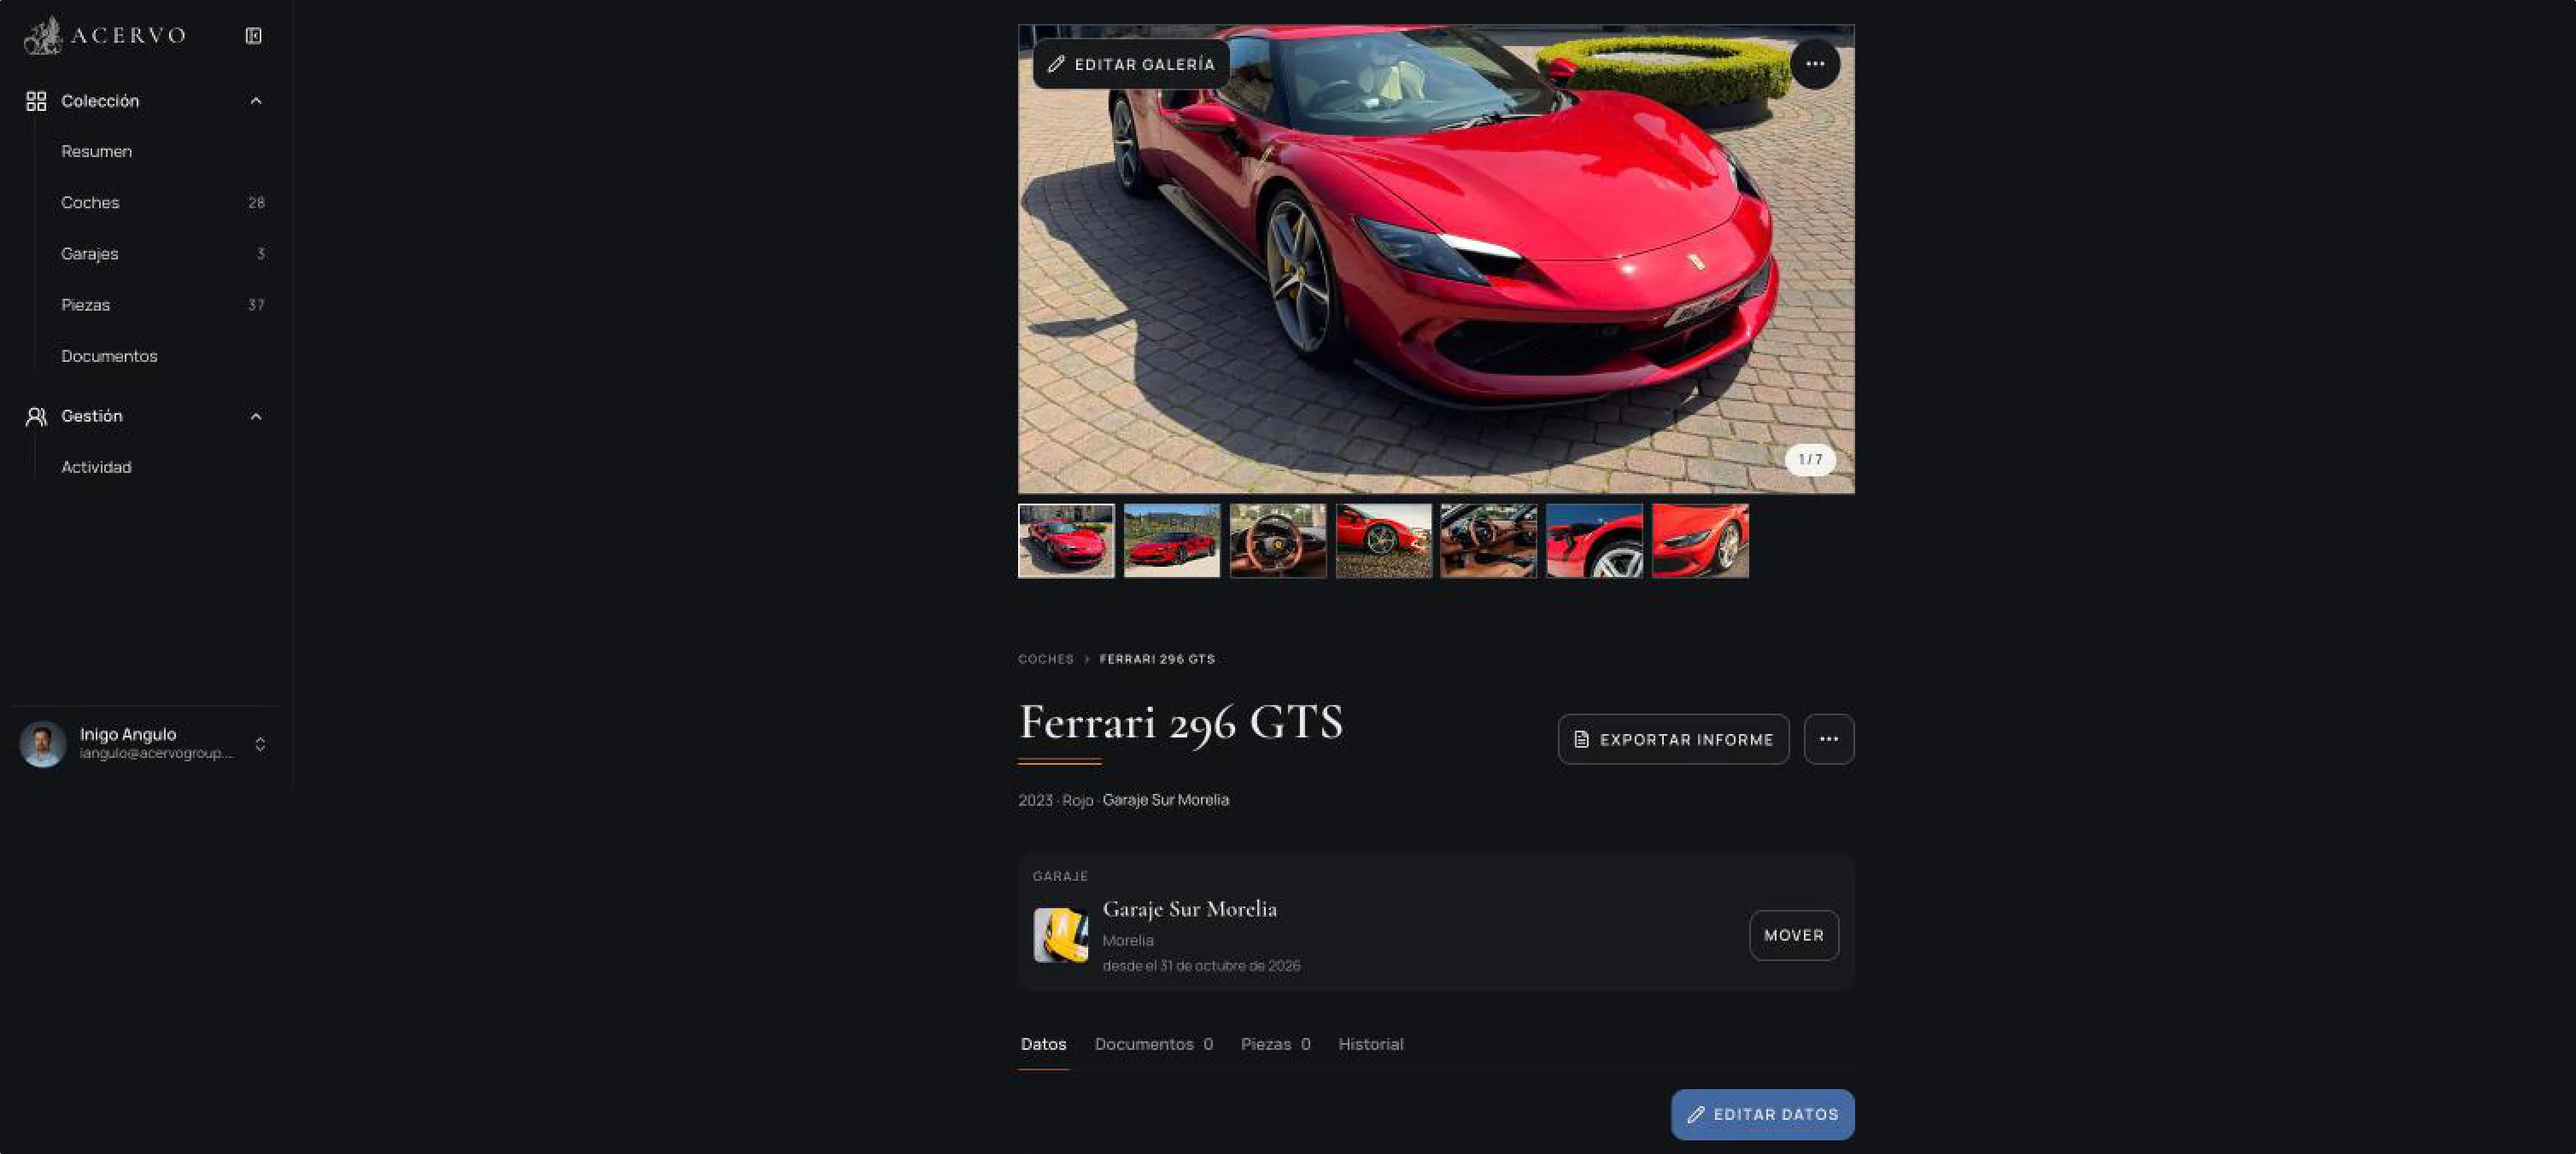
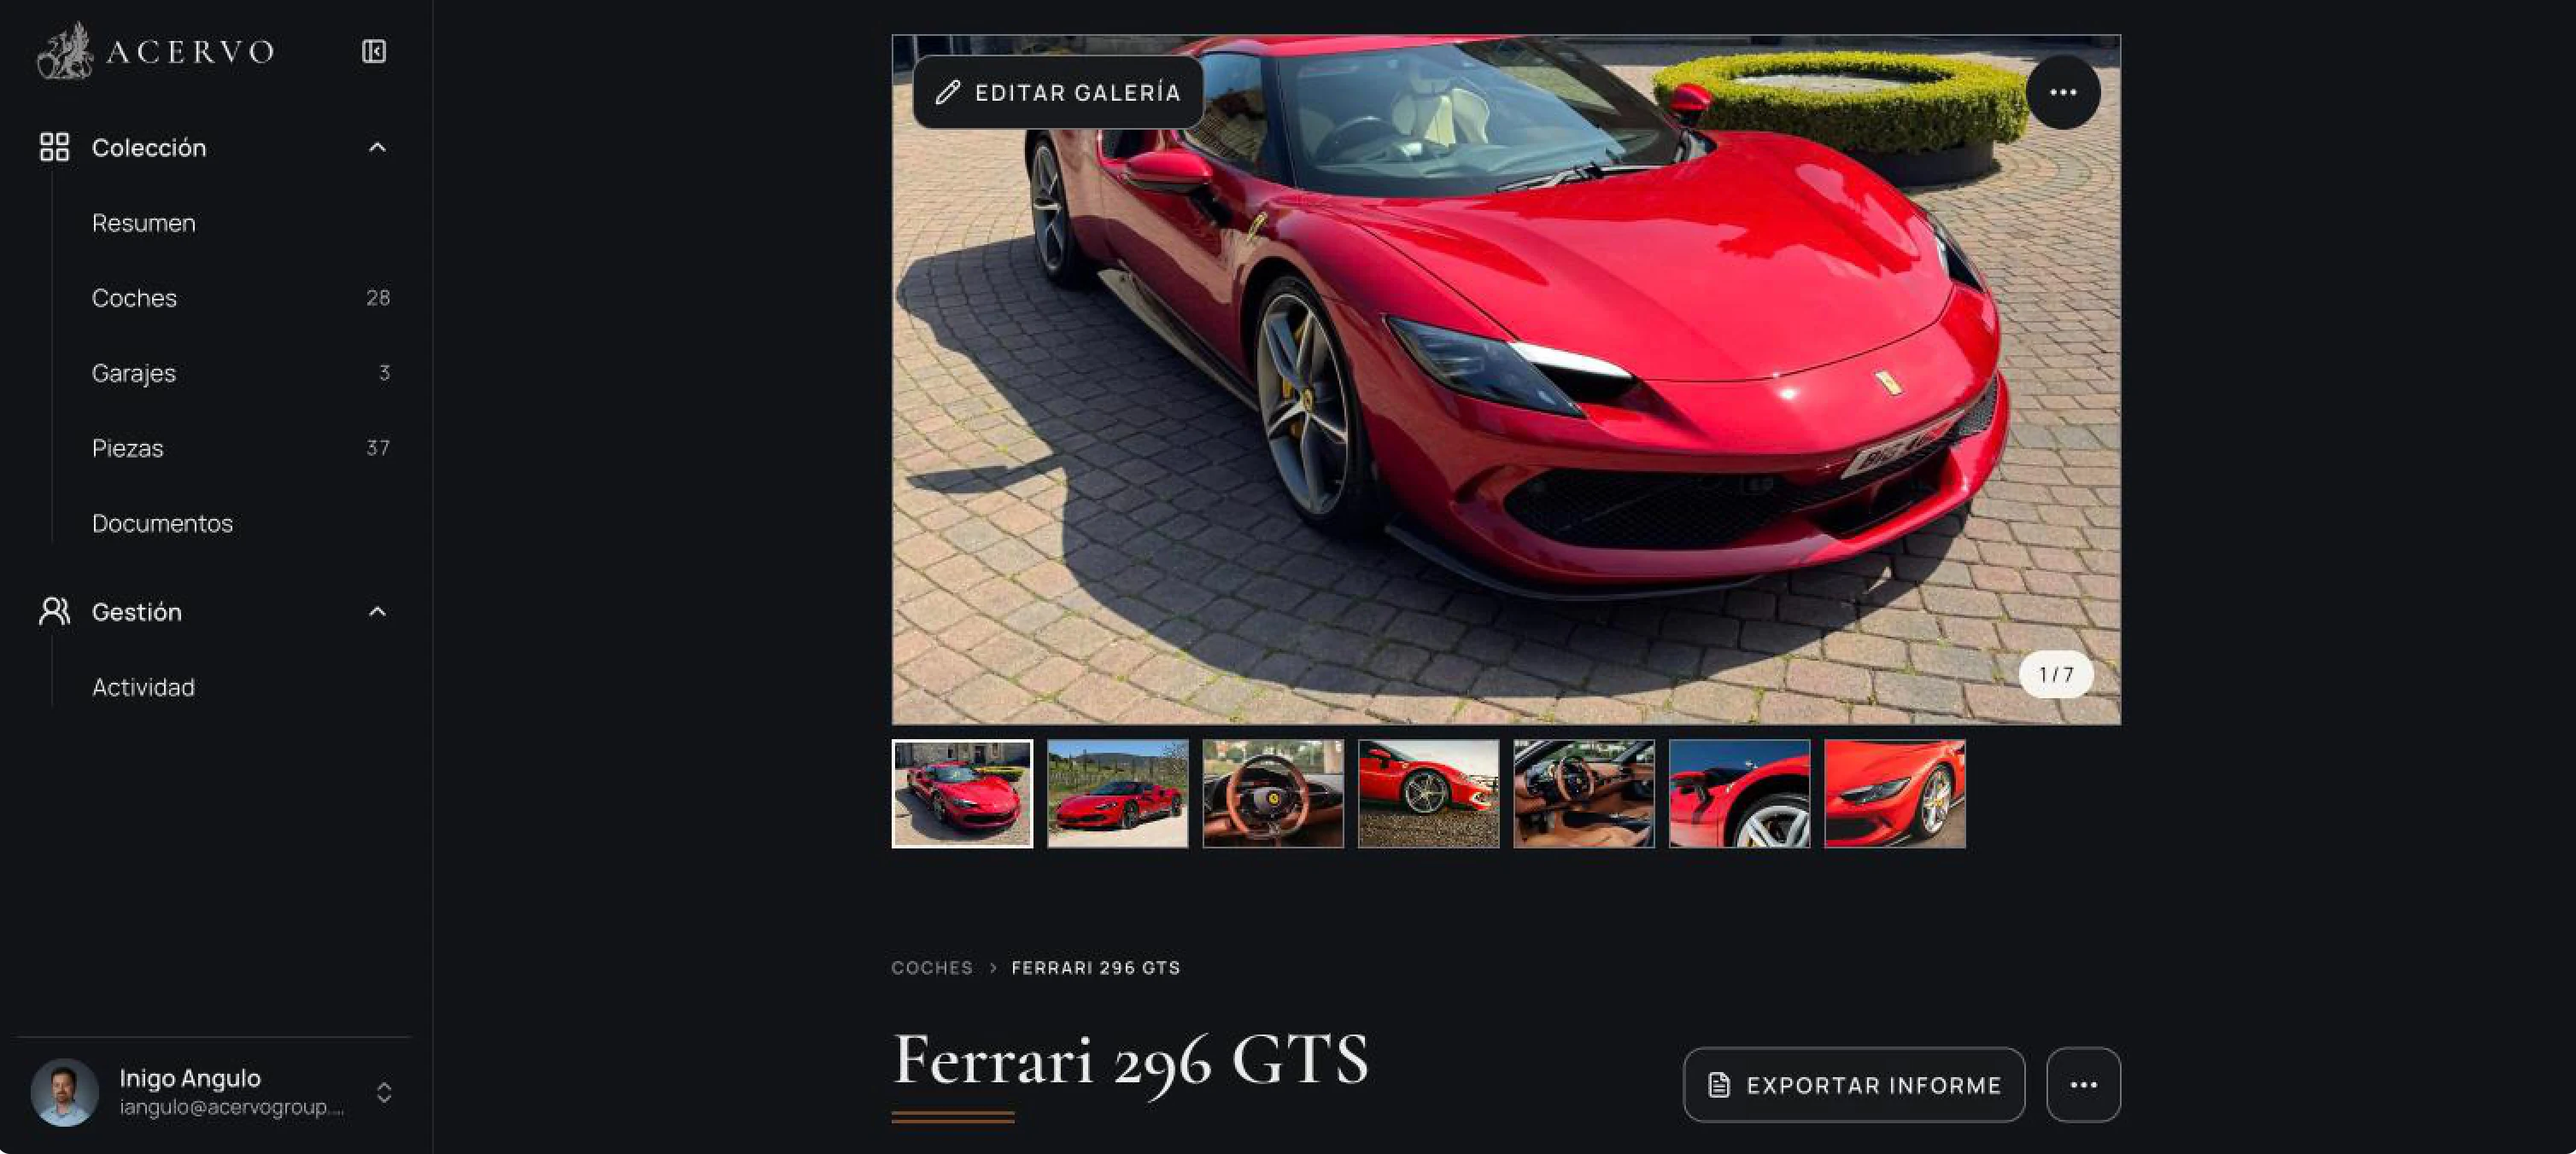
Acervo: passport screenshot at native zoom
Claude-Session: https://claude.ai/code/session_01HvDhLU7zv1GEaTFUNL8YVh

diff --git a/work/acervo.html b/work/acervo.html
@@ -357,7 +357,7 @@
   </div>
 
   <div class="cs__screens" data-reveal>
-    <div class="cs__screen"><img src="../img/acervo/passport-desktop.webp" loading="lazy" alt="Car passport in production: Ferrari 296 GTS gallery, garage, documents, parts, history" width="3016" height="1352"><span class="cs__screen-label">Passport &#183; gallery, garage, documents, parts, history, report export</span></div>
+    <div class="cs__screen"><img src="../img/acervo/passport-desktop.webp" loading="lazy" alt="Car passport in production: Ferrari 296 GTS gallery and report export" width="3016" height="1352"><span class="cs__screen-label">Passport &#183; gallery, garage, documents, parts, history, one report export</span></div>
     <div class="cs__screen"><img src="../img/acervo/activity.webp" loading="lazy" alt="Activity log in production: 1210 changes in 30 days, each tied to a person and a car" width="3016" height="1352"><span class="cs__screen-label">Activity &#183; 1,210 changes in 30 days, each with who and on what</span></div>
   </div>
   <div class="cs__screens" data-reveal>
